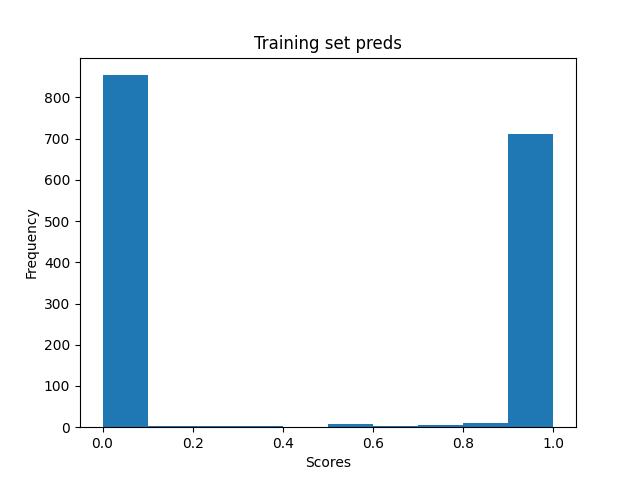
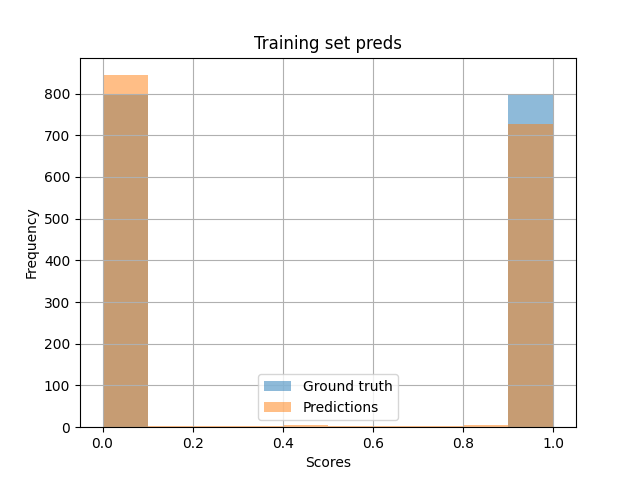
updated

diff --git a/inference.py b/inference.py
@@ -42,10 +42,9 @@ def infer(data):
                 clip_n, _ = normal
 
                 gt_a = [1 for _ in range(clip_a.shape[0])]
-                gt_n = [0 for _ in range(clip_n.shape[1])]
+                gt_n = [0 for _ in range(clip_n.shape[0])]
 
-                gts.extend(gt_a)
-                gts.extend(gt_n)
+                gts.extend(gt_a + gt_n)
 
                 # pass data to device
                 clip_a, clip_n = clip_a.to(device), clip_n.to(device)
@@ -92,13 +91,13 @@ def infer(data):
 
 
 gts, preds = infer(data='train')
-
 plt.figure()
 plt.hist(gts, alpha=0.5, label="Ground truth")
 plt.hist(preds, alpha=0.5, label="Predictions")
 plt.legend(['Ground truth', 'Predictions'])
 plt.title('Training set preds')
 plt.xlabel('Scores')
+plt.grid()
 plt.ylabel('Frequency')
 plt.savefig('figure.png')
 
